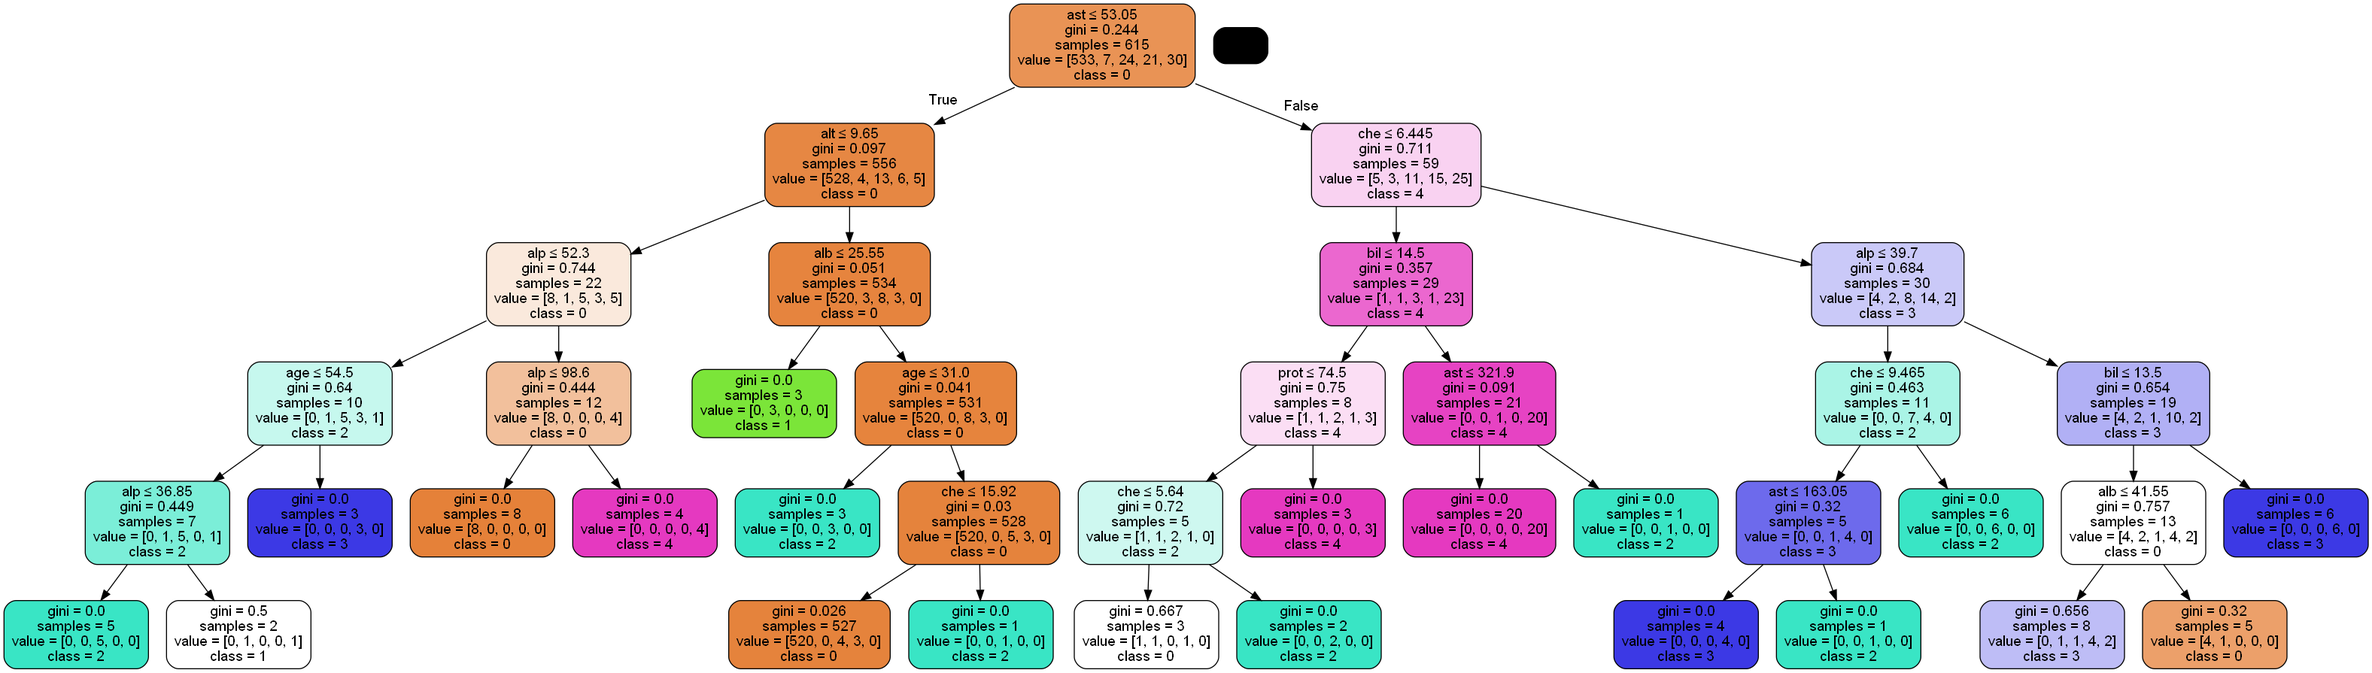
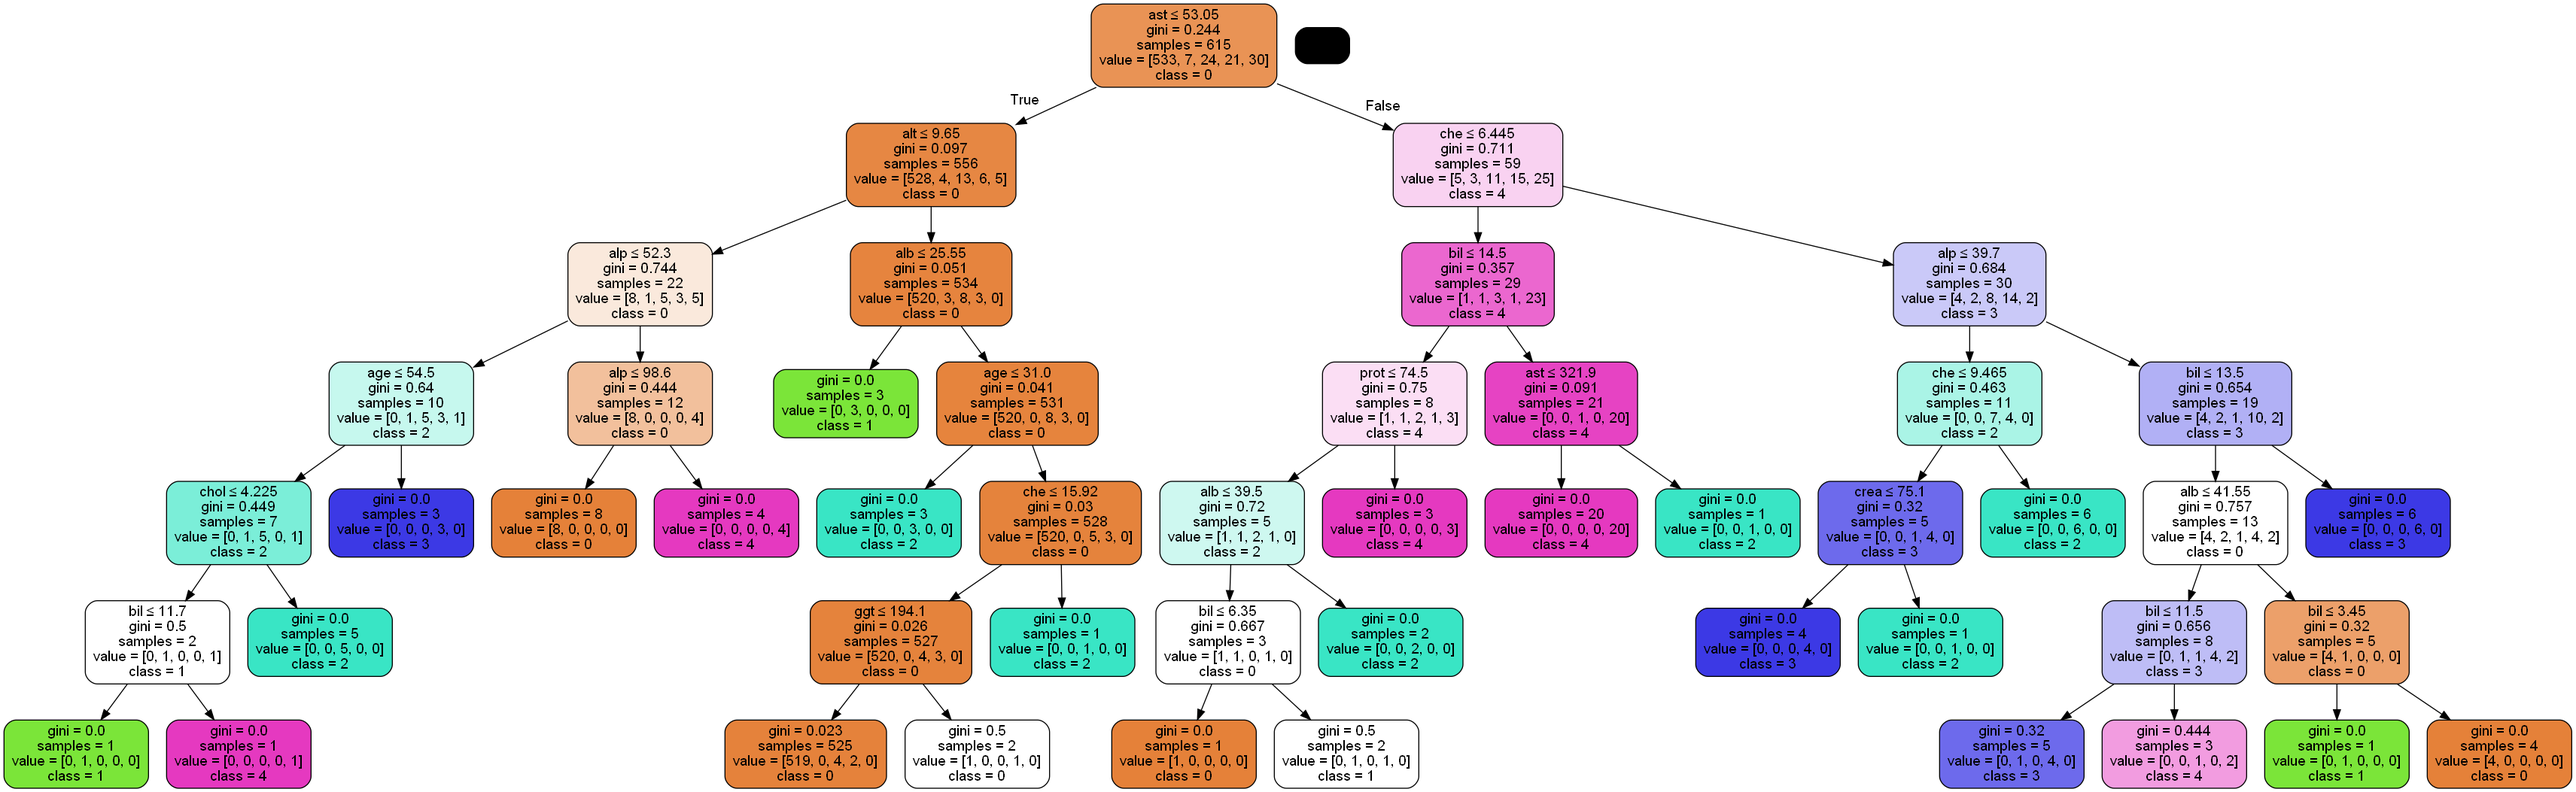
two files

diff --git a/awd.py b/awd.py
@@ -1,3 +1,4 @@
+import graphviz
 import numpy as np
 from matplotlib import pyplot as plt
 import pandas as pd
@@ -36,13 +37,11 @@ cpuNormalizedData = cpu.copy()
 for column in cpu[feature_cols]:
     cpuNormalizedData[column] = (cpuNormalizedData[column] - cpuNormalizedData[column].mean()) / cpuNormalizedData[column].std()
 
-dtc = tree.DecisionTreeClassifier()
+dtc = tree.DecisionTreeClassifier(criterion="entropy",splitter="random")
 
 x = cpuNormalizedData[feature_cols]
 y = cpuNormalizedData["NAME"]
 parameters = {'max_depth': range(3, 10)}
-
-score = ["precision"]
 
 k_fold = KFold(n_splits=7, random_state=10, shuffle=True)
 clf = GridSearchCV(dtc, parameters, n_jobs=4, cv=k_fold)
@@ -56,82 +55,3 @@ graph.write_png('cpu.png')
 Image(graph.create_png())
 
 
-
-# col_names = ['category', 'age', 'sex', 'alb', 'alp', 'alt', 'ast', 'bil', 'che', 'chol', 'crea', 'ggt', 'prot']
-# pima = pd.read_csv("hcv.csv", header=None, names=col_names)
-# feature_cols = ['age', 'sex', 'alb', 'alp', 'alt', 'ast', 'bil', 'che', 'chol', 'crea', 'ggt', 'prot']
-# X = pima[feature_cols]
-# y = pima.category
-# KFold(n_splits=5, random_state=None, shuffle=False)
-#
-# k_fold = KFold(n_splits=5)
-# parameters = {'max_depth': range(3, 60)}
-# clf = GridSearchCV(tree.DecisionTreeClassifier(), parameters, n_jobs=4, return_train_score=True)
-#
-# clf.fit(X=X, y=y)
-# tree_model = clf.best_estimator_
-# print(clf.best_score_, clf.best_params_)
-# dot_data = StringIO()
-# export_graphviz(tree_model, out_file=dot_data, filled=True, rounded=True, special_characters=True, feature_names=feature_cols, class_names=['0', '1', '2', '3', '4'])
-# graph = pydotplus.graph_from_dot_data(dot_data.getvalue())
-# graph.write_png('hcv.png')
-# Image(graph.create_png())
-
-# results = clf.cv_results_
-#
-# plt.figure(figsize=(13, 13))
-# plt.title("GridSearchCV evaluating using multiple scorers simultaneously", fontsize=16)
-#
-# plt.xlabel("min_samples_split")
-# plt.ylabel("Score")
-#
-# ax = plt.gca()
-# ax.set_xlim(0, 402)
-# ax.set_ylim(0.73, 1)
-#
-# # Get the regular numpy array from the MaskedArray
-# X_axis = np.array(results["param_min_samples_split"].data, dtype=float)
-#
-# for scorer, color in zip(sorted(scoring), ["g", "k"]):
-#     for sample, style in (("train", "--"), ("test", "-")):
-#         sample_score_mean = results["mean_%s_%s" % (sample, scorer)]
-#         sample_score_std = results["std_%s_%s" % (sample, scorer)]
-#         ax.fill_between(
-#             X_axis,
-#             sample_score_mean - sample_score_std,
-#             sample_score_mean + sample_score_std,
-#             alpha=0.1 if sample == "test" else 0,
-#             color=color,
-#         )
-#         ax.plot(
-#             X_axis,
-#             sample_score_mean,
-#             style,
-#             color=color,
-#             alpha=1 if sample == "test" else 0.7,
-#             label="%s (%s)" % (scorer, sample),
-#         )
-#
-#     best_index = np.nonzero(results["rank_test_%s" % scorer] == 1)[0][0]
-#     best_score = results["mean_test_%s" % scorer][best_index]
-#
-#     # Plot a dotted vertical line at the best score for that scorer marked by x
-#     ax.plot(
-#         [
-#             X_axis[best_index],
-#         ]
-#         * 2,
-#         [0, best_score],
-#         linestyle="-.",
-#         color=color,
-#         marker="x",
-#         markeredgewidth=3,
-#         ms=8,
-#     )
-#
-#     # Annotate the best score for that scorer
-#     ax.annotate("%0.2f" % best_score, (X_axis[best_index], best_score + 0.005))
-#
-# plt.legend(loc="best")
-# plt.grid(False)
-# plt.show()

diff --git a/awd_hcv.py b/awd_hcv.py
@@ -1,0 +1,29 @@
+import pandas as pd
+from six import StringIO
+from sklearn.model_selection import GridSearchCV
+from sklearn.model_selection import KFold
+from sklearn import tree
+import pydotplus
+from IPython.display import Image
+from sklearn.tree import export_graphviz
+
+
+col_names = ['category', 'age', 'sex', 'alb', 'alp', 'alt', 'ast', 'bil', 'che', 'chol', 'crea', 'ggt', 'prot']
+pima = pd.read_csv("hcv.csv", header=None, names=col_names)
+feature_cols = ['age', 'sex', 'alb', 'alp', 'alt', 'ast', 'bil', 'che', 'chol', 'crea', 'ggt', 'prot']
+X = pima[feature_cols]
+y = pima.category
+KFold(n_splits=5, random_state=None, shuffle=False)
+
+k_fold = KFold(n_splits=5)
+parameters = {'max_depth': range(3, 60)}
+clf = GridSearchCV(tree.DecisionTreeClassifier(), parameters, n_jobs=4, return_train_score=True)
+
+clf.fit(X=X, y=y)
+tree_model = clf.best_estimator_
+print(clf.best_score_, clf.best_params_)
+dot_data = StringIO()
+export_graphviz(tree_model, out_file=dot_data, filled=True, rounded=True, special_characters=True, feature_names=feature_cols, class_names=['0', '1', '2', '3', '4'])
+graph = pydotplus.graph_from_dot_data(dot_data.getvalue())
+graph.write_png('hcv.png')
+Image(graph.create_png())
